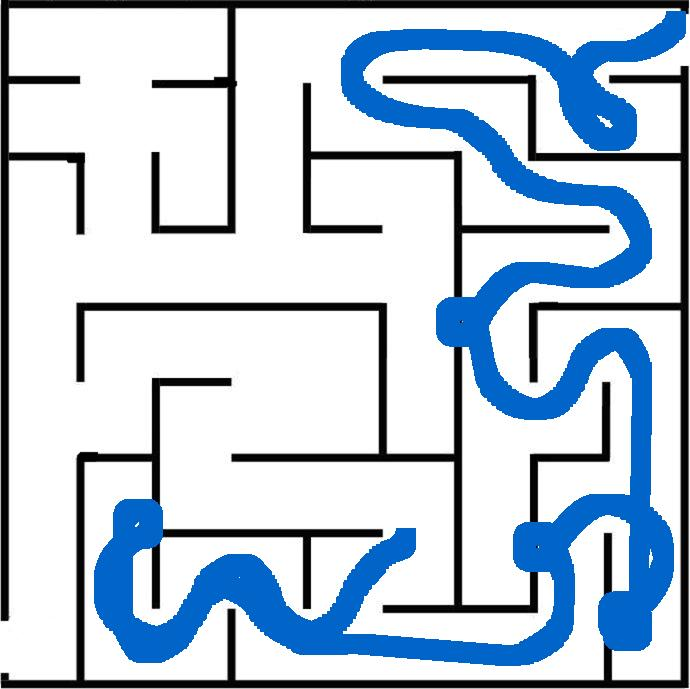
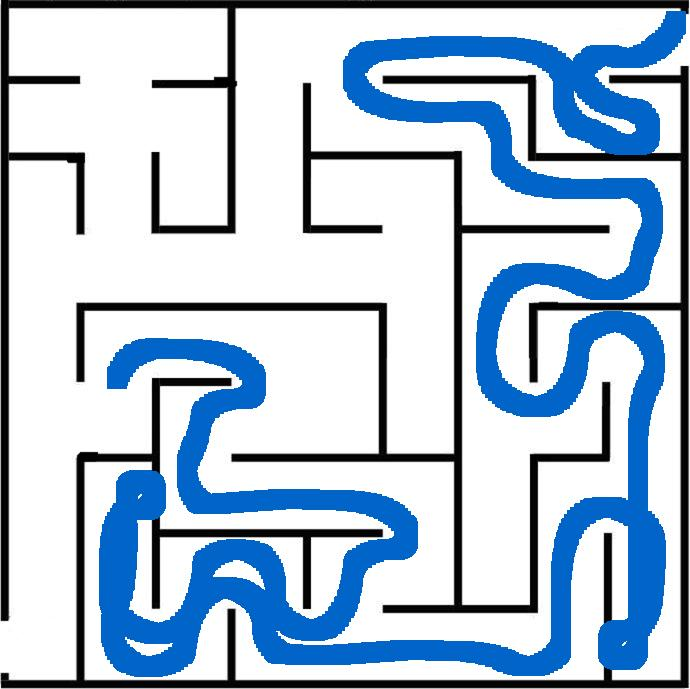
when replace the distance with smaller values

diff --git a/robot-run.py b/robot-run.py
@@ -128,7 +128,7 @@ class enviro:
 			self.y -= slowStep * math.sin(self.angle)
 
 	def fuzzy(self):
-		stretch = [Radius+15,Radius+30,Radius+50]
+		stretch = [Radius+14,Radius+22,Radius+39]
 		ret = []
 		a = [self.left(),self.front(),self.right()]
 		for i in range(3):
@@ -147,10 +147,10 @@ class enviro:
 	def strategy(self):
 		l = [
 			[[FAR,0xffffff,0xffffff],[STOP,SLOW]],
-			[[0xffffff,MID|NEAR|BUMP|MIDFAR,0xffffff],[SLOW,STOP]],
+			[[0xffffff,MID|NEAR|BUMP,0xffffff],[SLOW,STOP]],
 			[[MID,0xffffff,0xffffff],[SLOW,SLOW]],
 			[[MIDFAR,0xffffff,0xffffff],[SLOW,FAST]],
-			[[NEAR,0xffffff,0xffffff],[FAST,SLOW]]
+			[[NEAR|BUMP,0xffffff,0xffffff],[FAST,SLOW]]
 		]
 		a = self.fuzzy()
 		for i in l:
@@ -161,6 +161,8 @@ class enviro:
 				(self.wheel0,self.wheel1) = i[1]
 				break 
 		else:
+			print "some thing wrong!!!!!!"
+			print a
 			(self.wheel0,self.wheel1) = (SLOW,SLOW)
 
 	def isOut(self,x1,y1):
